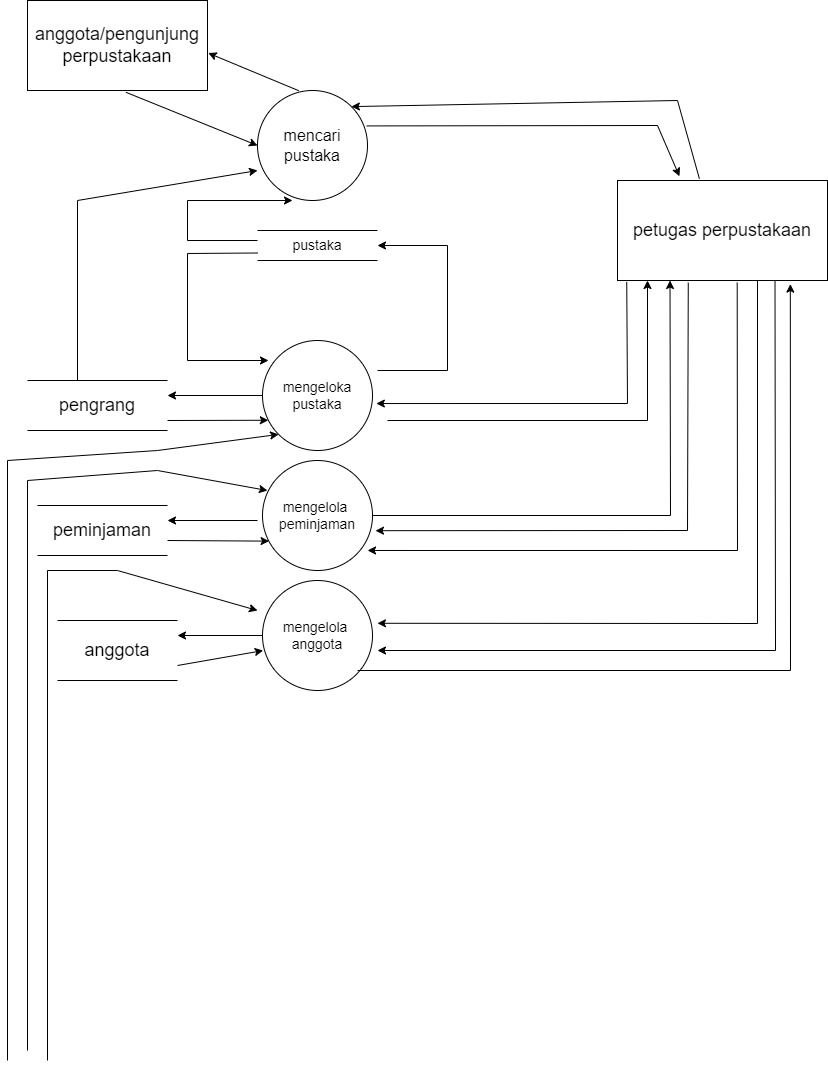
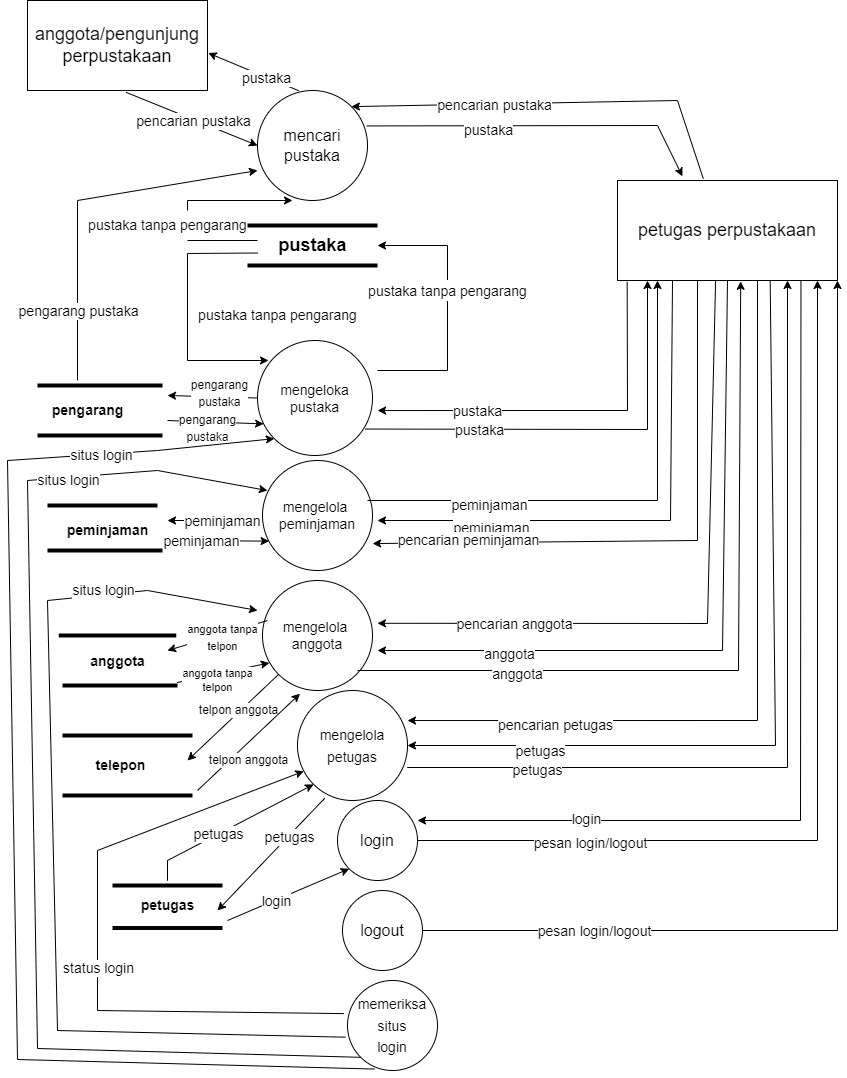
git@github.com:nazwasabila/studi-kasus-data-flow-diagram.git

diff --git a/README.md b/README.md
@@ -4,5 +4,10 @@ Diagram Nazwa
 
 
 [level0](img/level0.jpeg)
-[level2](img/level2.jpeg)
 [level1](img/level1.jpeg)
+[level2](img/level2.jpeg)
+[mengelola-anggota-level2](img/mengelola-anggota-level2.jpeg)
+[mengelola-petugas-level2](img/mengelola-petugas-level2.jpeg)
+[mengelola-pinjaman-level2](img/mengelola-pinjaman-level2.jpeg)
+[mengelola-pustaka-level2](img/mengelola-pustaka-level2.jpeg)
+[kamus-data](img/kamus-data.jpeg)
